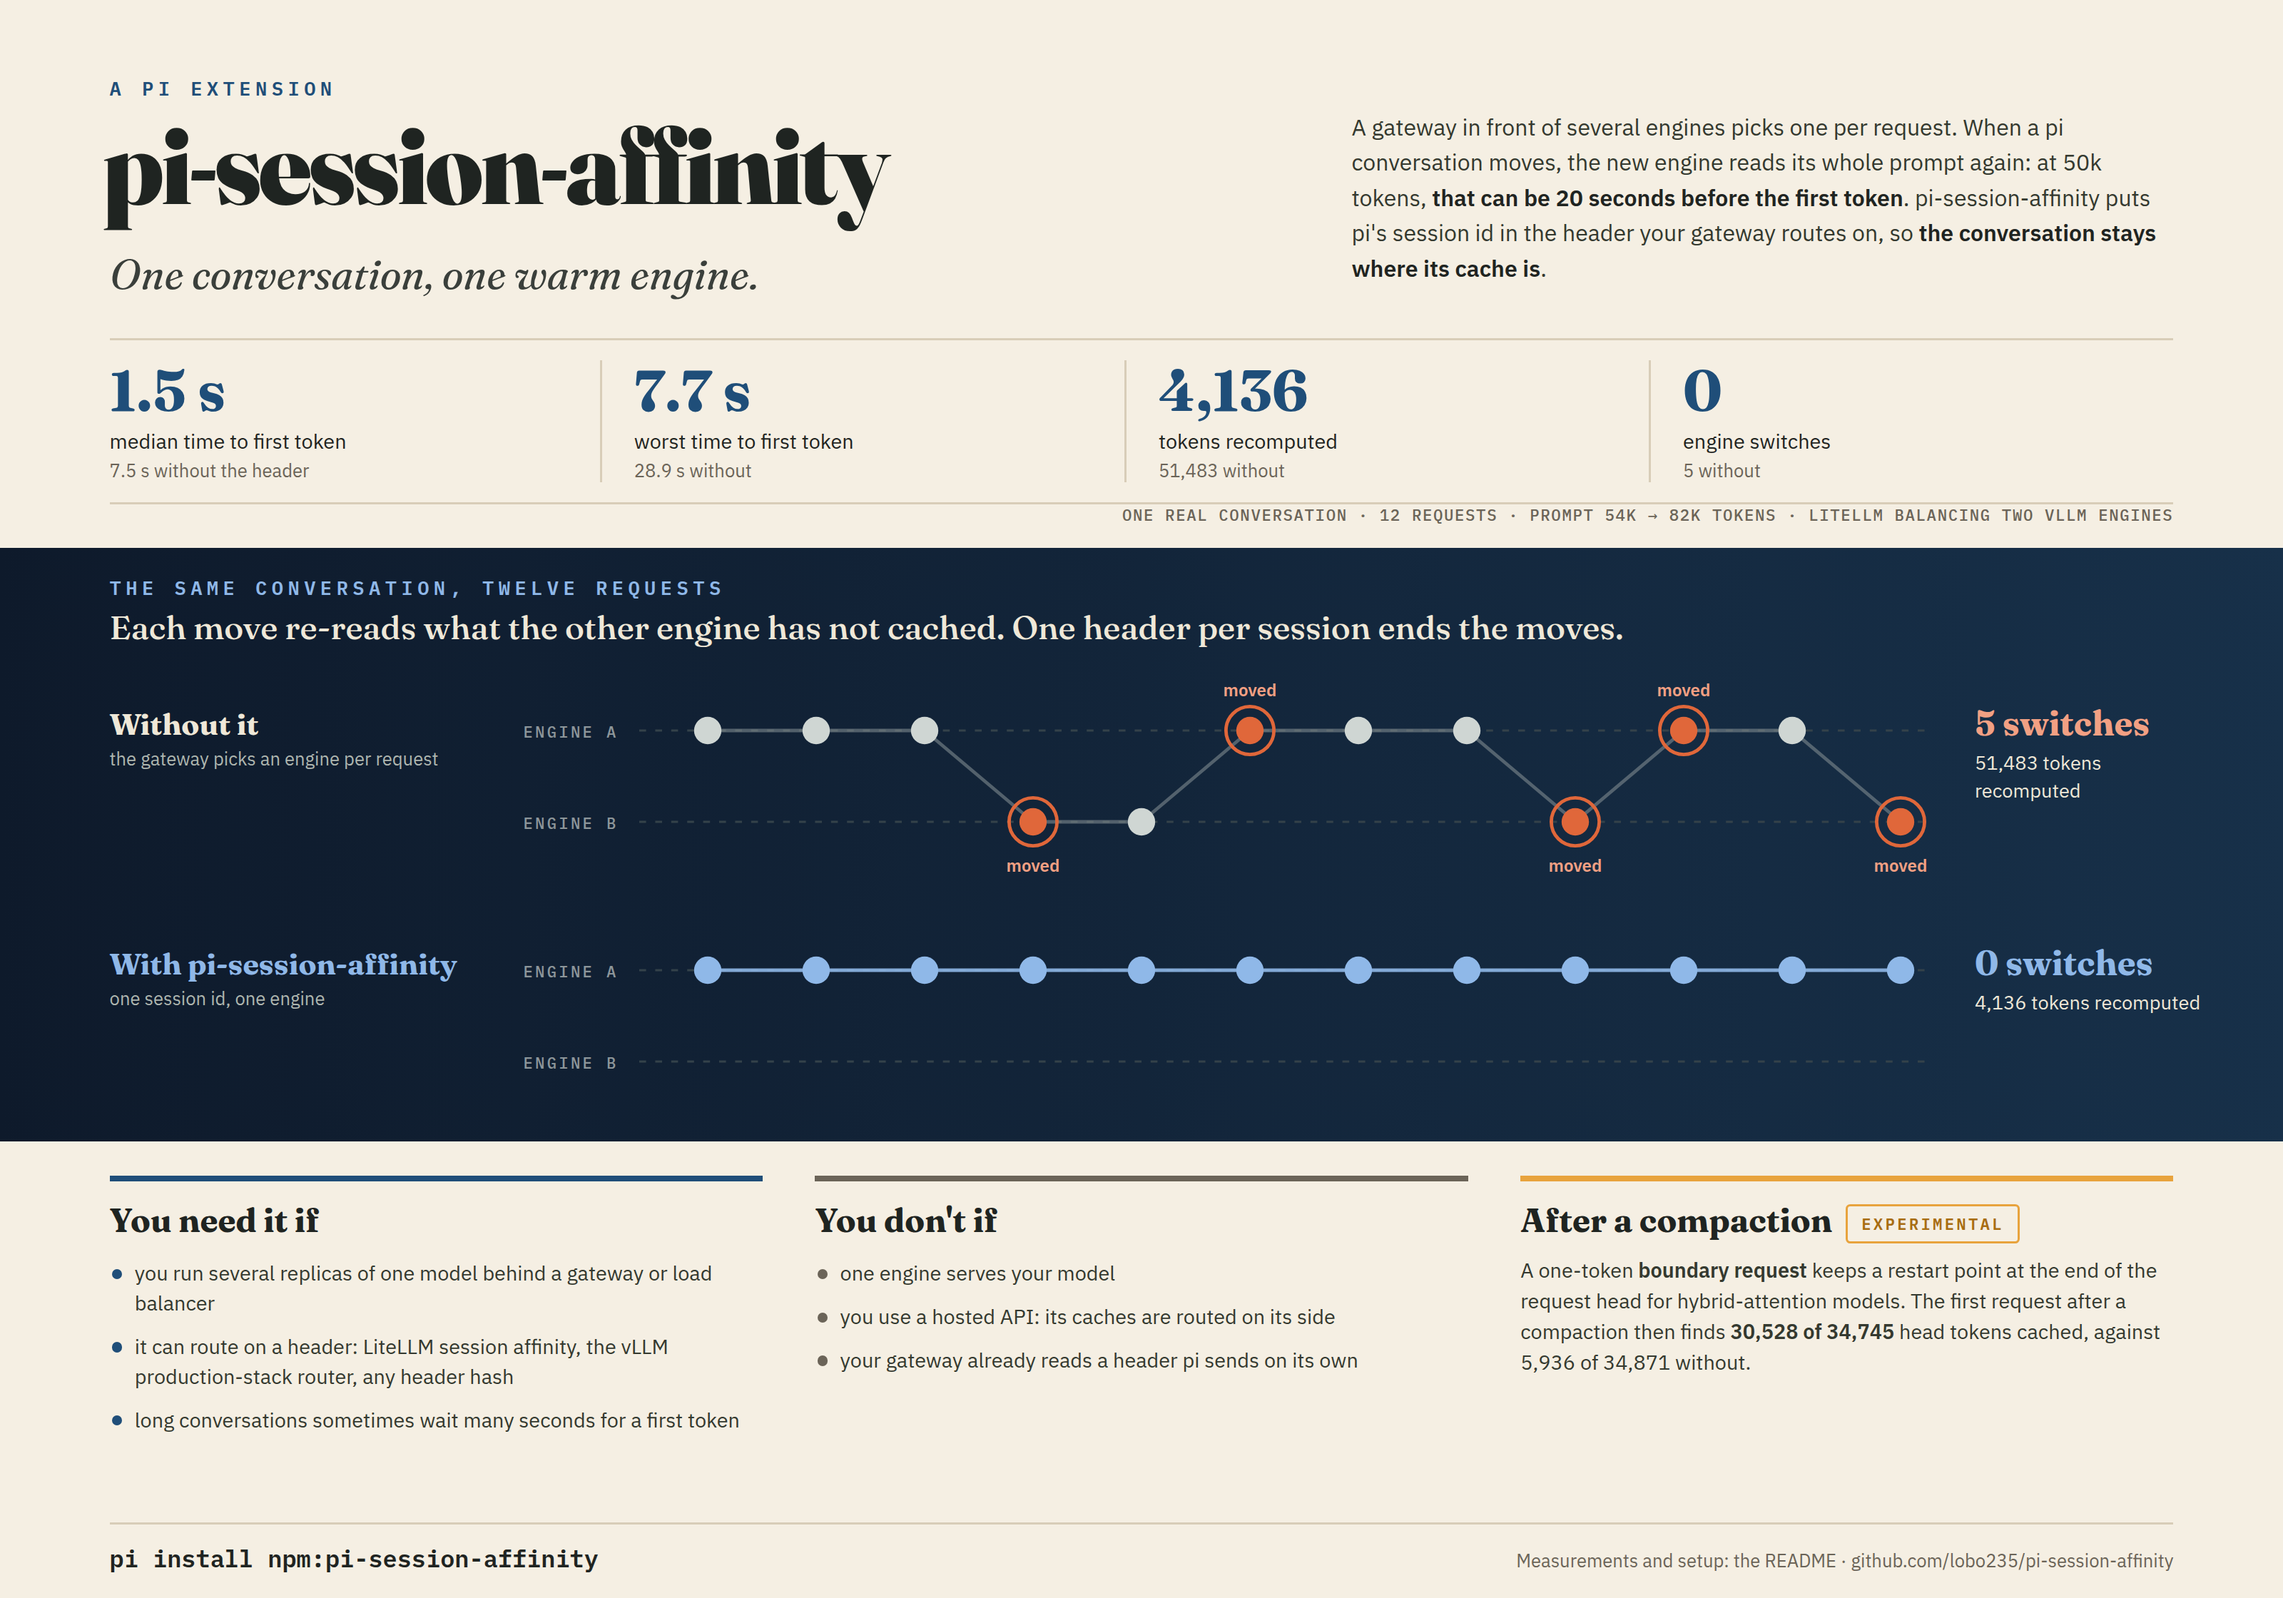
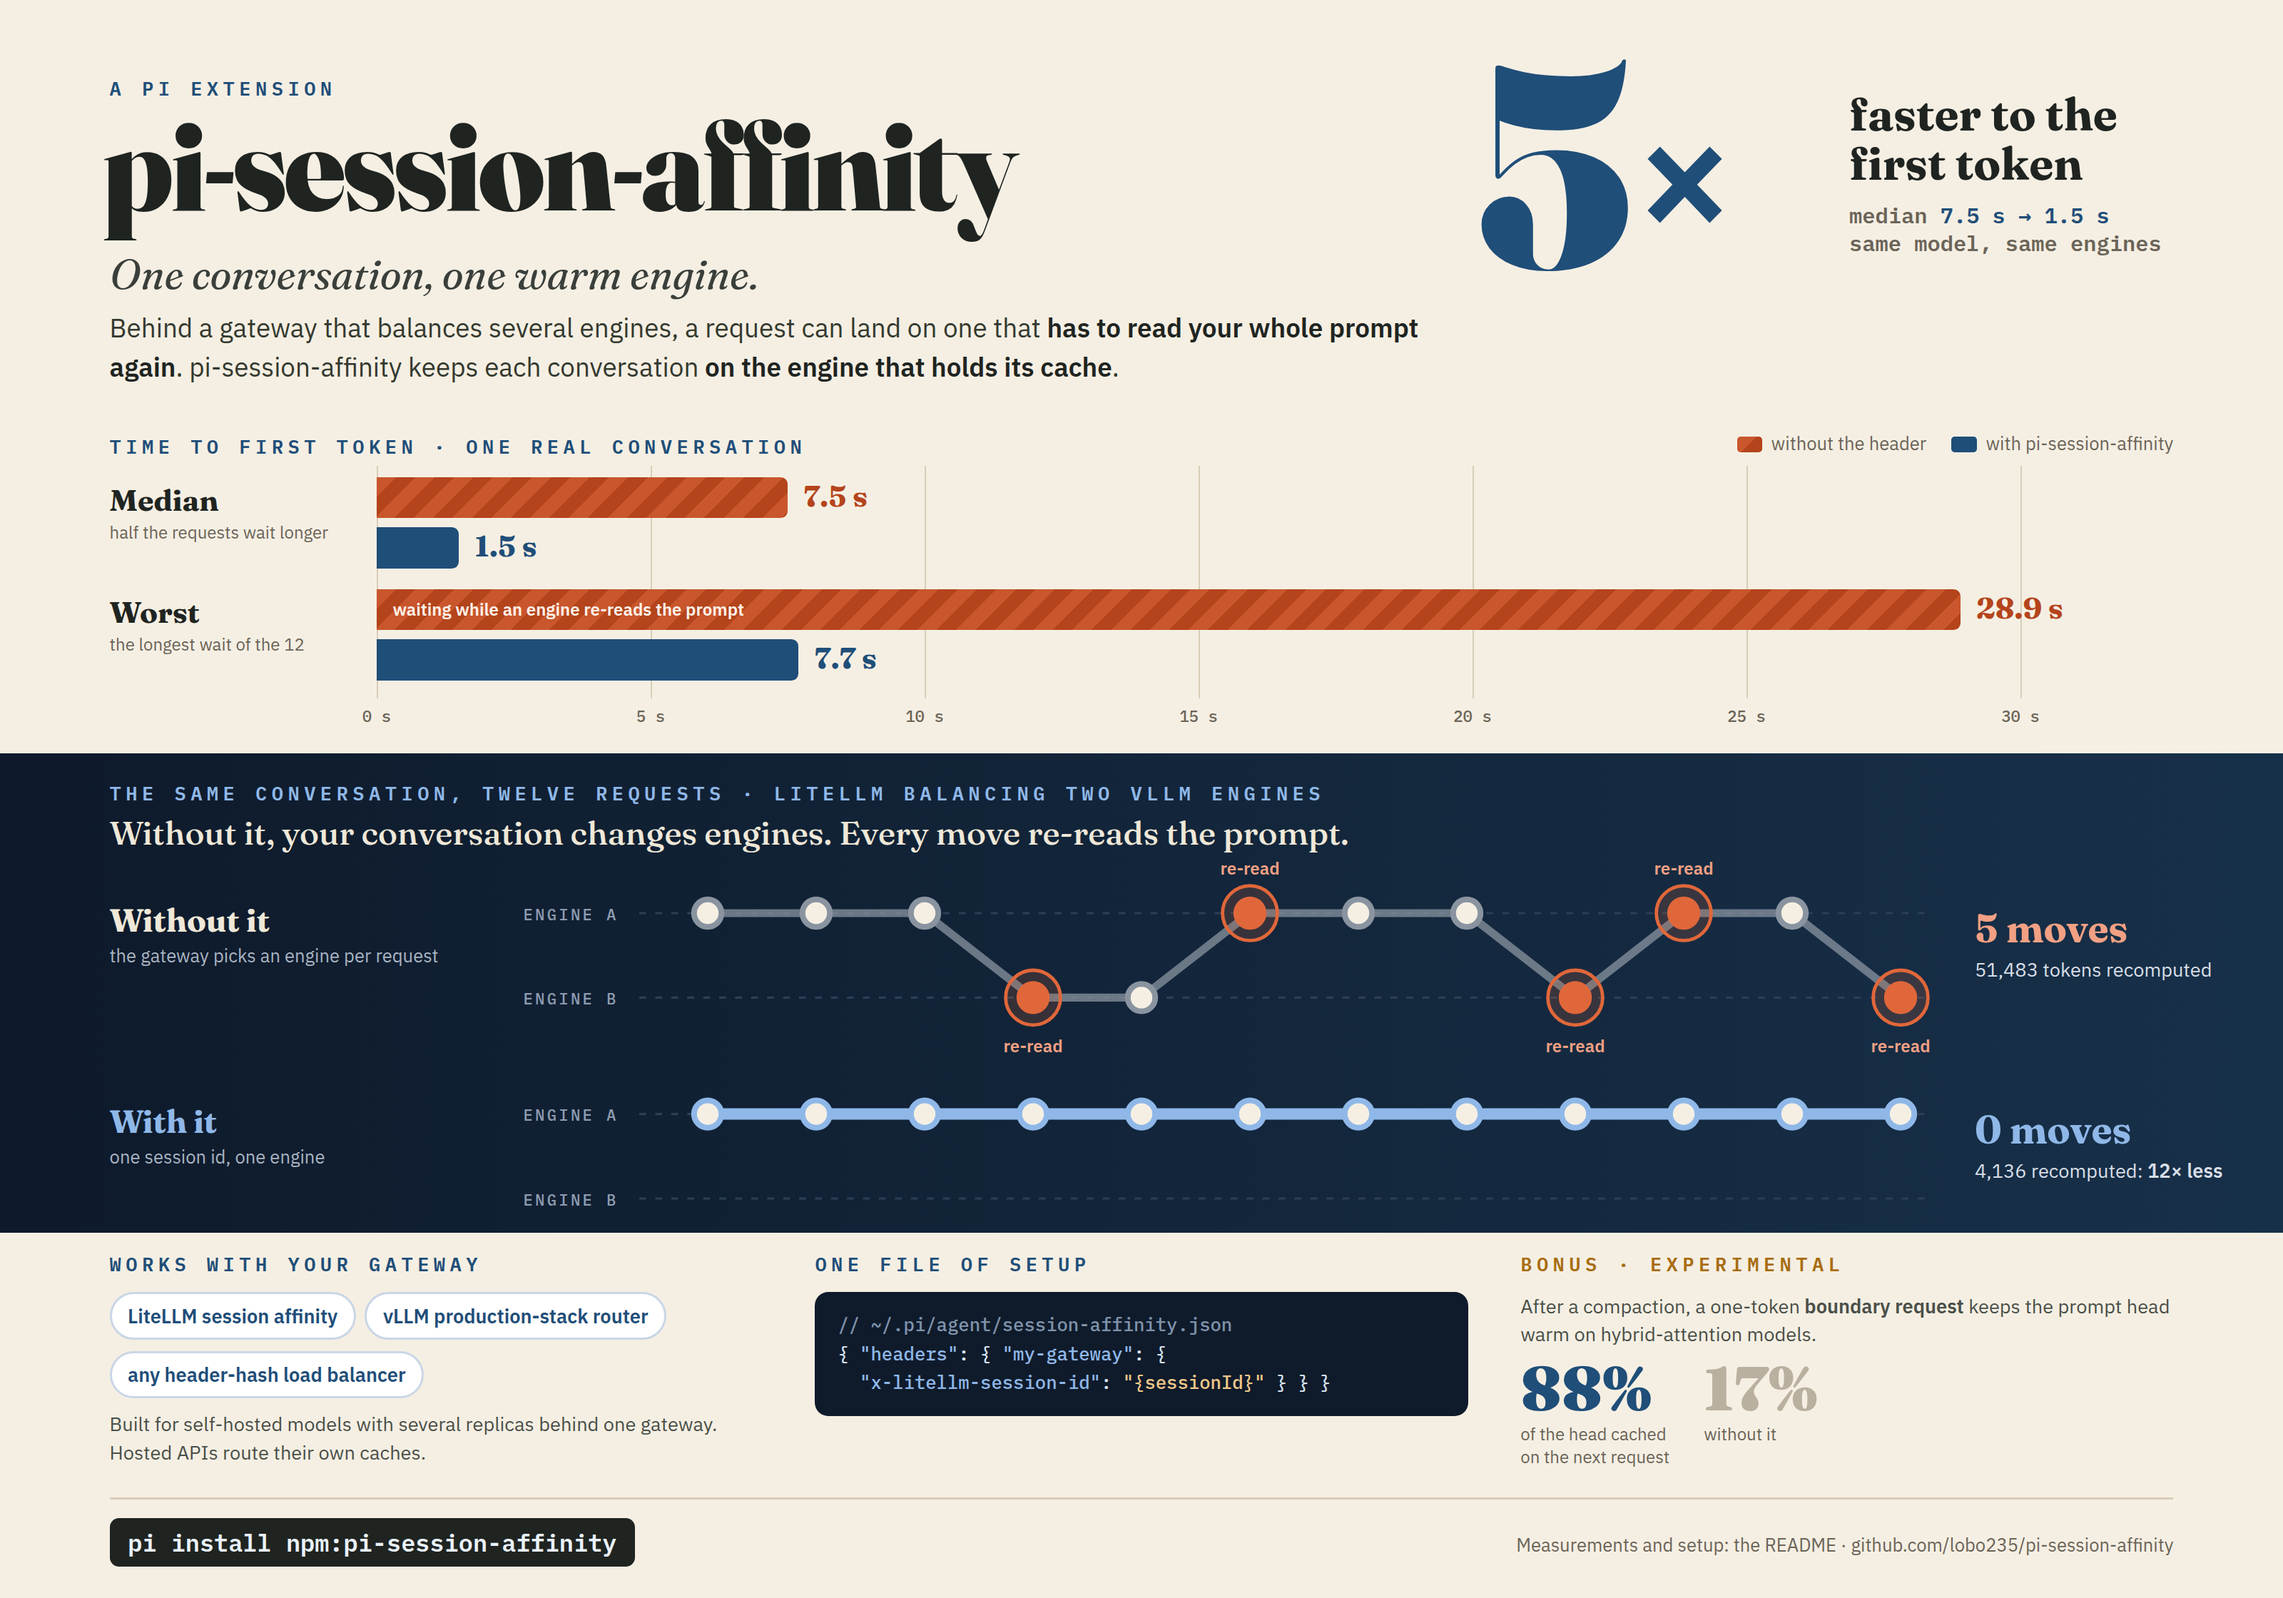
Infographic: lead with the benefit, show the before and after (#9)
Redesigns the README and pi.dev infographic to sell the extension rather
than document it:

- a single headline benefit up top, in the package's own motif;
- a before/after the reader gets at a glance;
- why it beats the alternatives, or who it is for;
- a clear install call.

Every number is taken from the README (measured), or is labelled
illustrative. The README alt text is updated to match.

No code changes.

diff --git a/README.md b/README.md
@@ -1,6 +1,6 @@
 # pi-session-affinity
 
-![pi-session-affinity: the same twelve-request conversation without the header, moving between two engines five times, and with it, staying on one; median time to first token 1.5 s against 7.5 s, worst 7.7 s against 28.9 s, 4,136 tokens recomputed against 51,483](https://raw.githubusercontent.com/lobo235/pi-session-affinity/main/.github/assets/infographic.png)
+![pi-session-affinity: 5x faster to the first token on one real conversation behind a gateway balancing two engines, median 7.5 s to 1.5 s and worst 28.9 s to 7.7 s; without the header the conversation changed engines five times and recomputed 51,483 tokens, with it none and 4,136](https://raw.githubusercontent.com/lobo235/pi-session-affinity/main/.github/assets/infographic.png)
 
 **One conversation, one warm engine.** pi-session-affinity keeps each [pi](https://github.com/earendil-works/pi) conversation on the inference
 engine that holds its prompt cache. On one measured conversation behind a gateway balancing two engines, the
